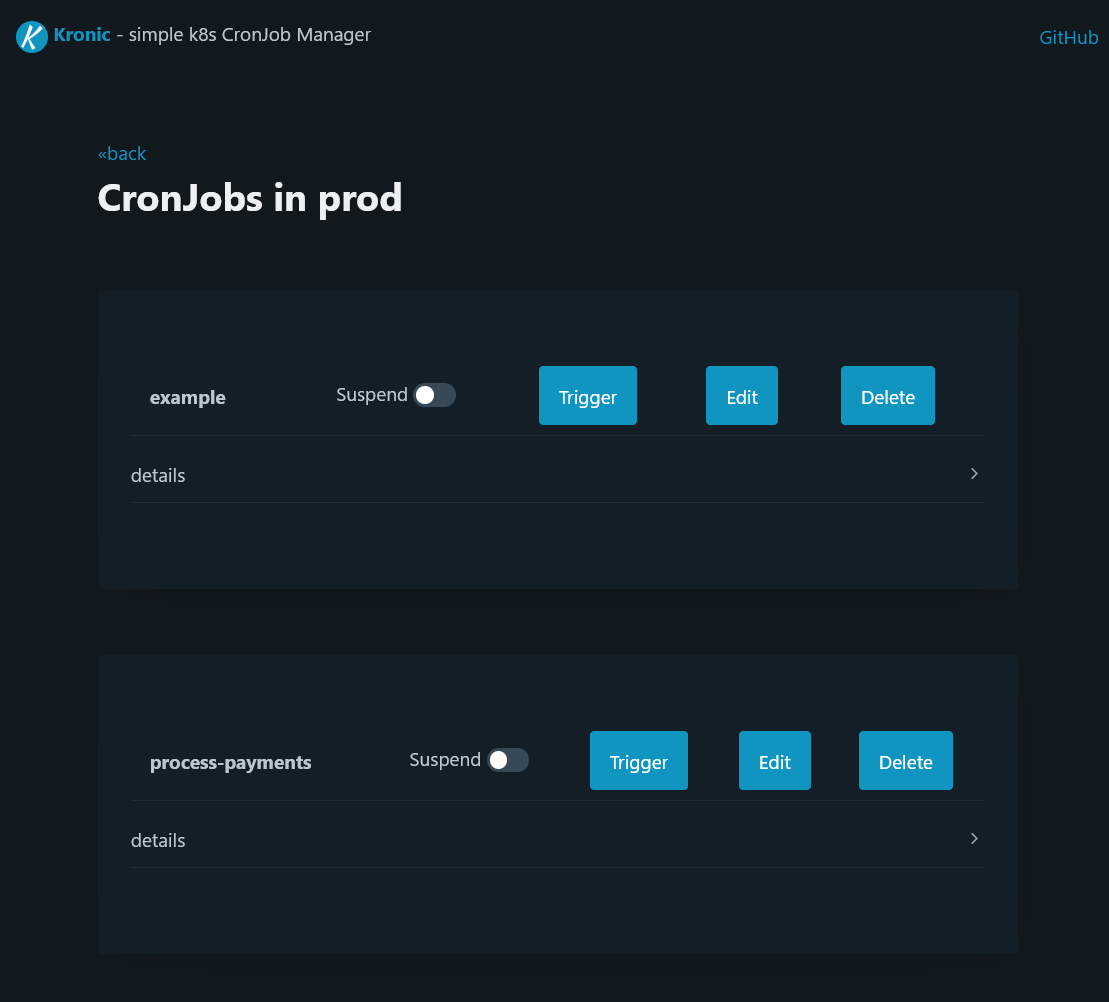
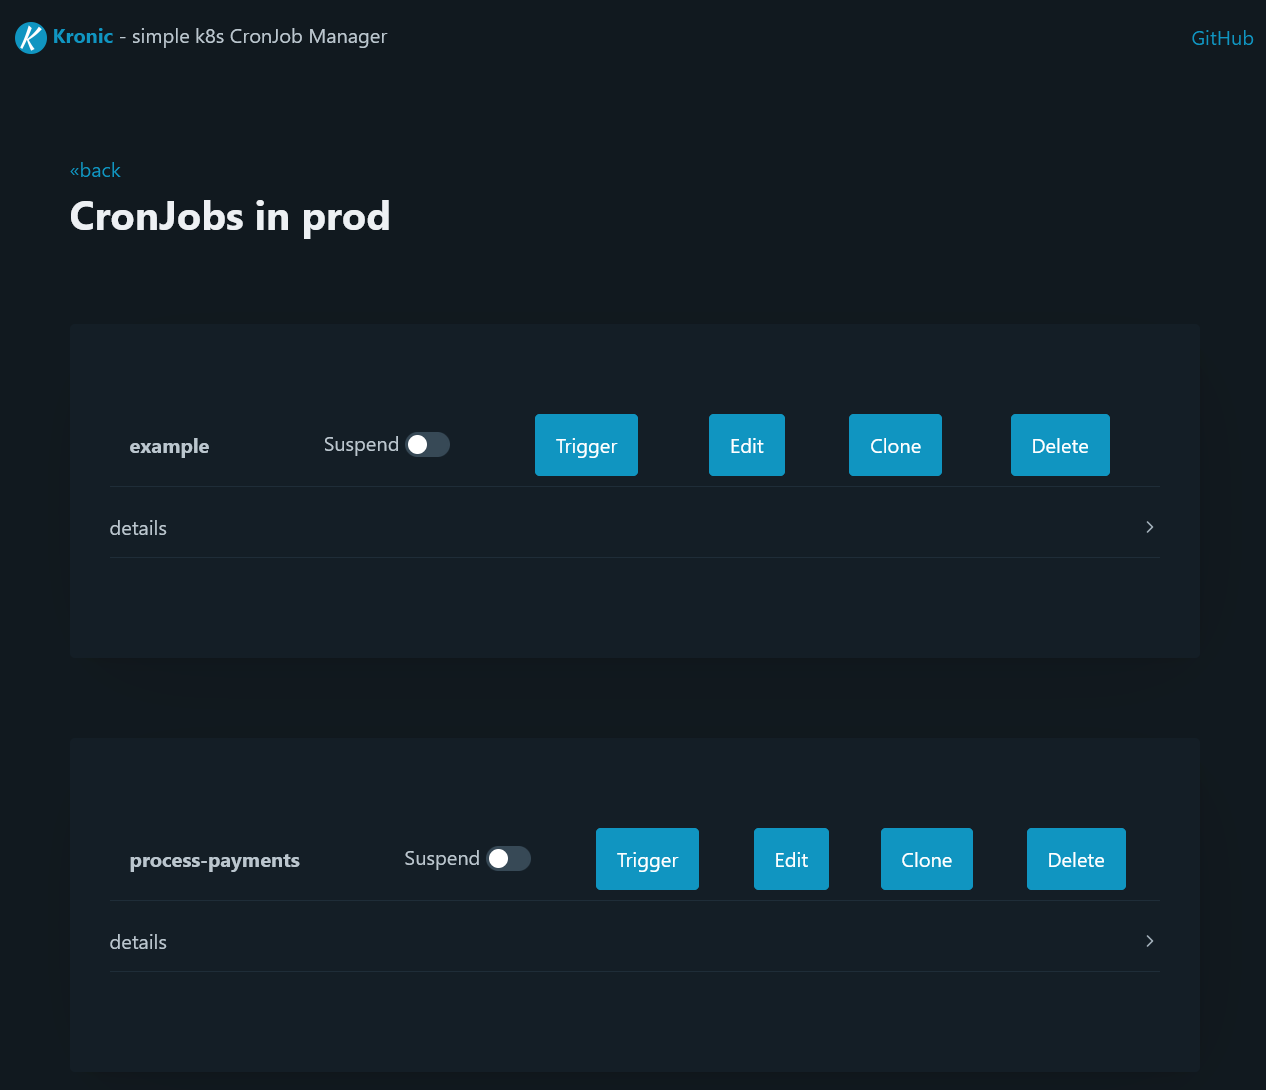
:memo: screenshot and readme update

diff --git a/README.md b/README.md
@@ -8,19 +8,21 @@ The simple Kubernetes CronJob admin UI.
 
 Kronic is in early alpha. It may eat your cronjobs, pods, or even your job.
 
+
 ## Screenshots
 
 See CronJobs across namespaces:
 ![Homepage](/.github/kronic-home.png)
 
-View, suspend, trigger, or delete CrobJobs at a glance:
+View, suspend, trigger, clone, or delete CrobJobs at a glance:
 ![Cronjobs in a Namespace](/.github/kronic-namespace.png)
 
 Drill down into details to see the status of jobs and pods:
 ![Cronjob Detail view](/.github/kronic-detail.png)
 
-Get your hands dirty with the raw YAML to edit or duplicate a CronJob:
+Get your hands dirty with the raw YAML to edit a CronJob:
 ![Cronjob Edit view](/.github/kronic-edit.png)
+
 
 ## Purpose
 
@@ -28,6 +30,7 @@ CronJobs are a powerful tool, but I have found that developers and stakeholders 
 trigger them ad-hoc, or create a new one-off job based on existing CronJob definitions.
 
 Kronic aims to be a simple admin UI / dashboard / manager to view, suspend, trigger, edit, and delete CronJobs in a Kubernetes cluster.
+
 
 ## Try it Out
 
@@ -37,10 +40,11 @@ To run in-cluster, edit and apply [k8s/deploy.yaml](/k8s/deploy.yaml). Adjust th
 
 To run locally, you can use `docker compose up` or install the Python dependencies and run natively. The compose file expects a valid kubeconfig at `~/.kube/kronic.yaml`.
 
+
 ## Design
 
 Kronic is a small Flask app built with:
-- the kubernetes Python client
+- the Python Kubernetes client
 - gunicorn
 - [AlpineJS](https://alpinejs.dev/)
 - [PicoCSS](https://picocss.com/)
